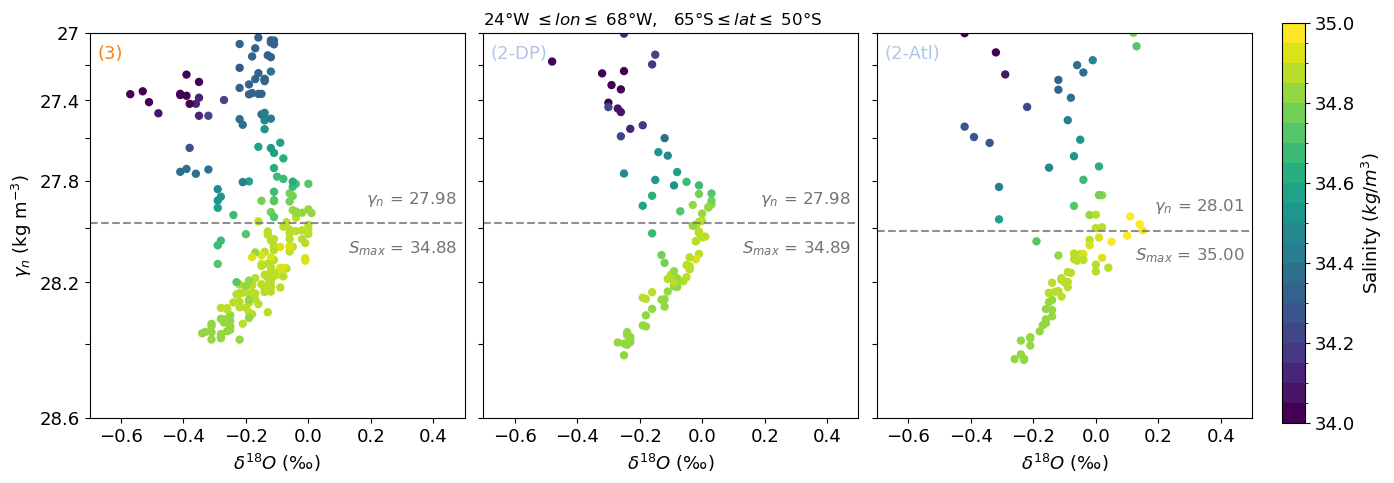
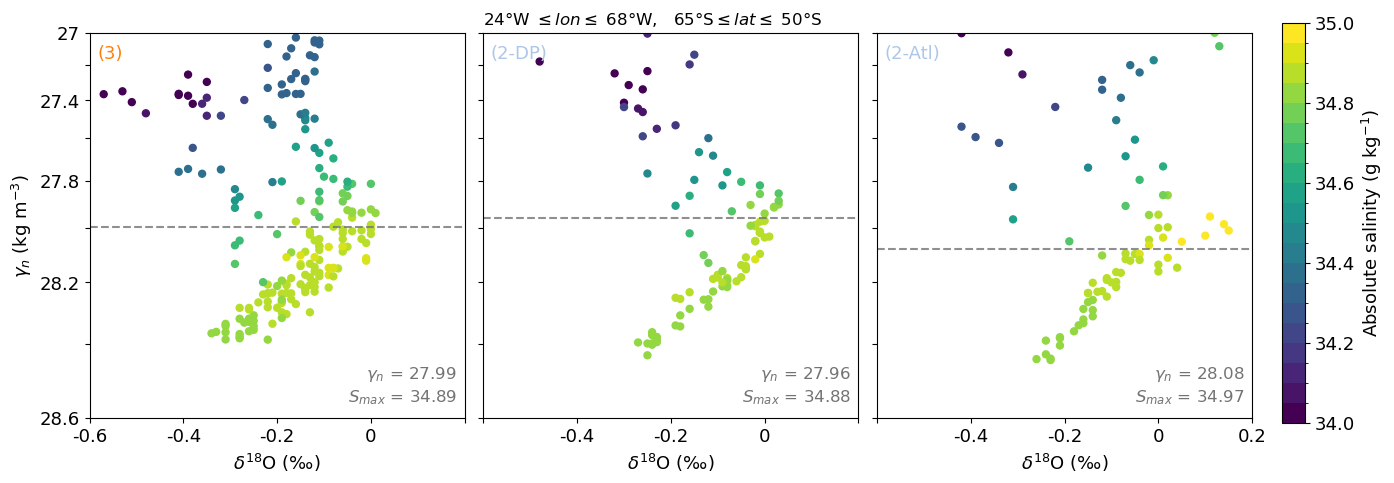
Figures 2 and 3: automatic density of the d18O maximum
- New usefull_functions.density_of_max: for each station with at least
  three bottles between 27.5 and 28.5 kg m-3, the density of the
  highest-d18O bottle (maxima within 0.02 kg m-3 of a limit discarded);
  median over stations. Replaces the visually placed lines in Figures 2
  and 3 (bottles below 150 m).
- Figure 3: d18O axis -0.6 to 0.2 permil, labels in the bottom-right
  corner, no tick labels where panels meet.
- d18O labels with an upright O; colorbars labelled absolute salinity
  (g kg-1).
- Regenerated d18o_profiles_SO_map_optimization.png and
  d18o_profiles_DP_map.png.

diff --git a/scripts/usefull_functions.py b/scripts/usefull_functions.py
@@ -34,6 +34,49 @@ l_lon_accepted = [(-60, 20), (-70, 30), (-70, -10), (-60, -30),
                   (50, 80), (50, 80), (80, 110), (160, 270)]
 
 
+def density_of_max(df, window=(27.5, 28.5), edge=0.02, min_bottles=3,
+                   d18o_col='d18O', gamma_col='gamma_n'):
+    """
+    Neutral density of the mid-density d18O maximum of a dataset.
+
+    For each station (unique position rounded to 0.01 deg) with at least
+    ``min_bottles`` bottles inside ``window``, take the neutral density of the
+    bottle with the highest d18O. Stations where that bottle lies within
+    ``edge`` of either limit are discarded: d18O there increases towards the
+    limit rather than peaking within the range. The dataset value is the
+    median over the remaining stations.
+
+    Parameters
+    ----------
+    df : pandas.DataFrame
+        One dataset's bottles, with Longitude, Latitude, d18O and gamma columns.
+    window : tuple, optional
+        Neutral-density search range (kg m-3).
+    edge : float, optional
+        Maxima closer than this to a limit are discarded (kg m-3).
+    min_bottles : int, optional
+        Bottles a station needs inside ``window`` to be used.
+
+    Returns
+    -------
+    float
+        Median density of the station maxima (kg m-3); NaN if no station
+        qualifies.
+    """
+    st = (df['Longitude'].round(2).astype(str) + '_' + df['Latitude'].round(2).astype(str)).values
+    g = np.asarray(df[gamma_col], dtype=float)
+    d = np.asarray(df[d18o_col], dtype=float)
+    inside = (g >= window[0]) & (g <= window[1]) & np.isfinite(d)
+    peaks = []
+    for station in np.unique(st):
+        m = (st == station) & inside
+        if m.sum() >= min_bottles:
+            g_max = g[m][np.argmax(d[m])]
+            if window[0] + edge < g_max < window[1] - edge:
+                peaks.append(g_max)
+    return float(np.median(peaks)) if peaks else np.nan
+
+
 def create_l_depth():
     """
     Create a list of 45 depth levels for ocean depth discretization.

diff --git a/scripts/plotting.py b/scripts/plotting.py
@@ -18,8 +18,8 @@ import numpy as np
 import usefull_functions as uf
 
 # Axis label for delta-18O, spelled out here so every figure agrees.
-D18O_LABEL = r'$\delta^{18}O$ (‰)'
-D18O_DIFF_LABEL = r'$\Delta \delta^{18}O$ (‰)'
+D18O_LABEL = r'$\delta^{18}\mathrm{O}$ (‰)'
+D18O_DIFF_LABEL = r'$\Delta \delta^{18}\mathrm{O}$ (‰)'
 GAMMA_LABEL = r'$\gamma_n$ (kg m$^{-3}$)'
 
 # Cumulative-RMSE-against-depth axis, written f(d) in the notebook text.
